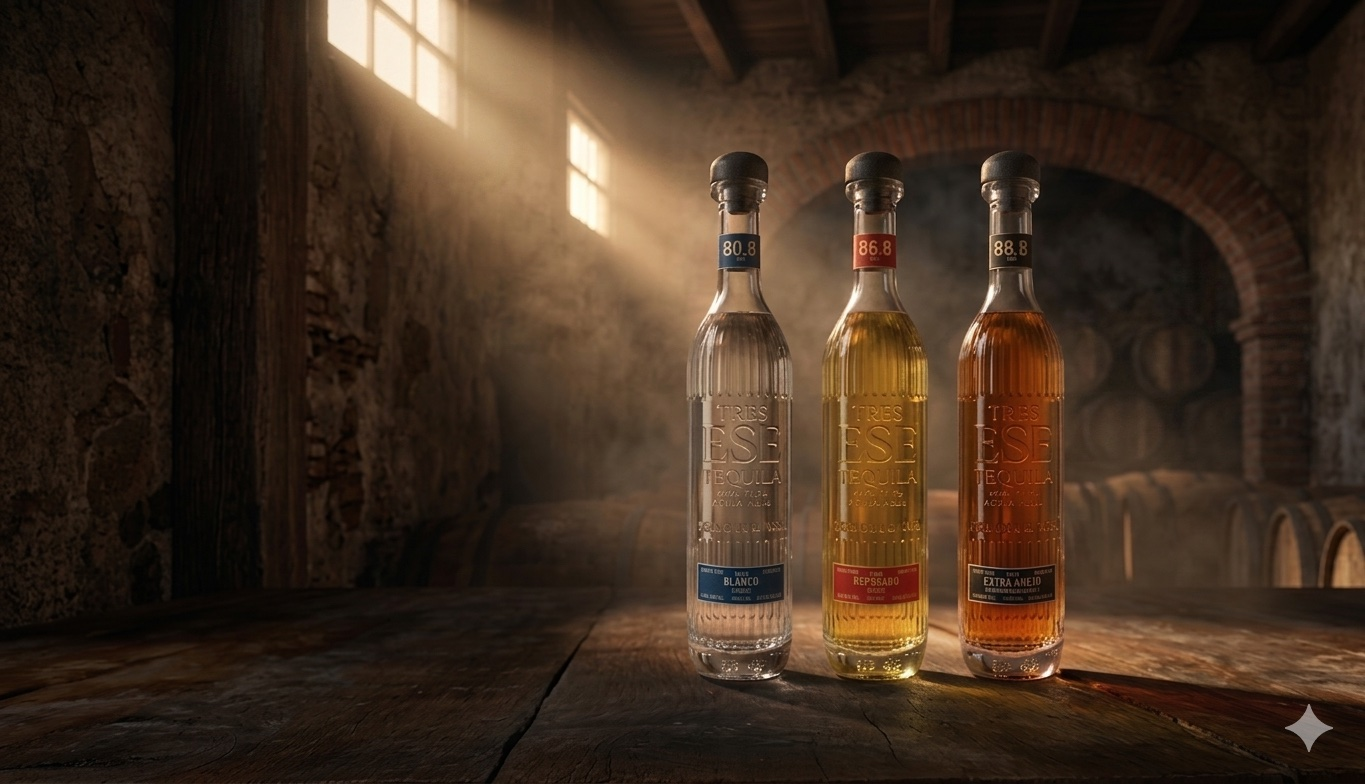
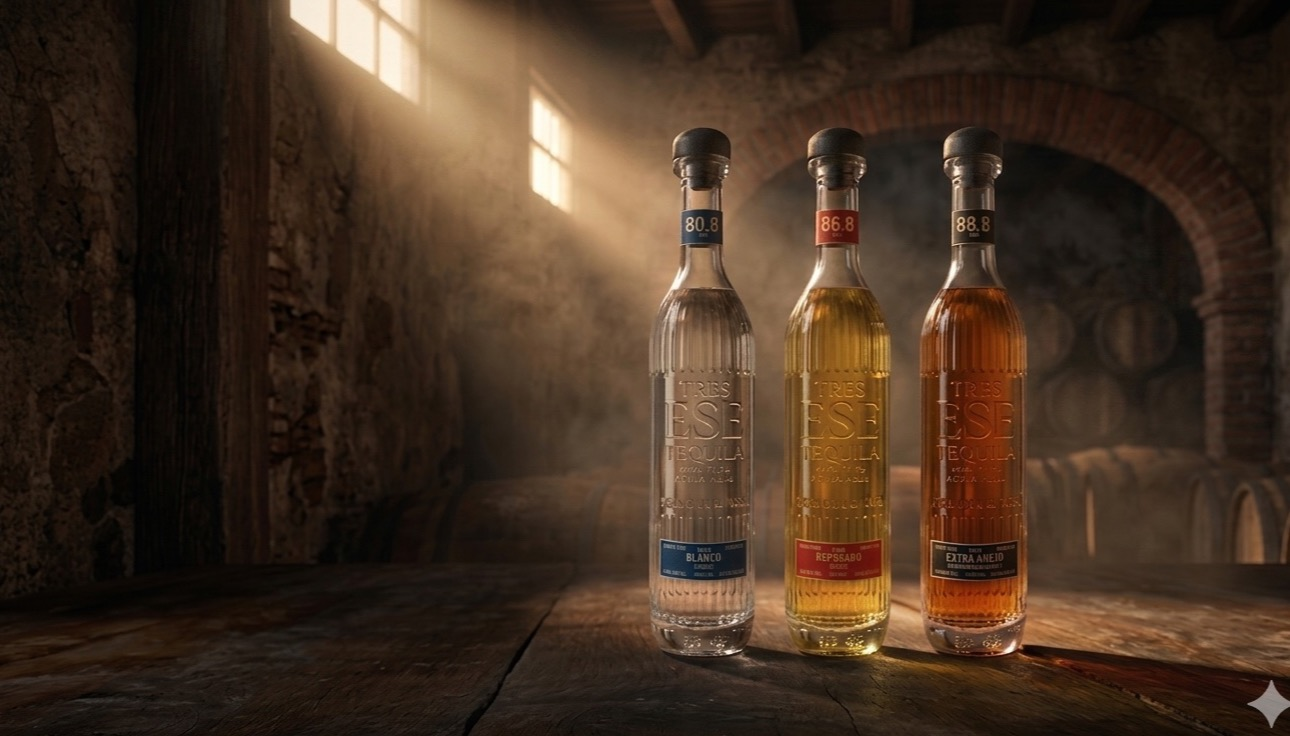
Three desktop fixes per annotated screenshot
1. Hero copy aligns with TRES ESE logo — removed the 1rem padding override
   on .hero-inner so it uses .container --pad like .header-inner
2. Photo right edge dissolves to dark — moved fade gradients onto .hero-bg::after
   with WIDER transition zones (26% horizontal, 13% vertical) so the contained
   image edges actually fall inside the dark gradient
3. Gemini watermark removed at the source — cropped 75px off the right and
   48px off the bottom of hero-cellar.jpg (1365x784 → 1290x736)

diff --git a/css/style.css b/css/style.css
@@ -312,18 +312,11 @@ button{ font: inherit; cursor: pointer; border: 0; background: none; color: inhe
 }
 .hero-bg{
   position:absolute; inset:0;
-  /* Layered background — top to bottom:
-       1. Horizontal edge fade (dark color at left/right, transparent in middle)
-       2. Vertical edge fade (dark color at top/bottom, transparent in middle)
-       3. Cellar photo
-       4. Solid dark fill
-     Where the gradients are solid dark they hide the photo edges; where they
-     fade to transparent the photo shows through. No more hard cutoff. */
-  background:
-    linear-gradient(90deg, #15100c 0%, transparent 10%, transparent 90%, #15100c 100%) no-repeat,
-    linear-gradient(180deg, #15100c 0%, transparent 8%, transparent 92%, #15100c 100%) no-repeat,
-    url('../images/hero-cellar.jpg') center / contain no-repeat,
-    #15100c;
+  background-image: url('../images/hero-cellar.jpg');
+  background-size: contain;
+  background-position: center center;
+  background-repeat: no-repeat;
+  background-color: #15100c;
   /* Gentle enhancement — depth without going red */
   filter: brightness(1.0) saturate(1.15) contrast(1.12);
   z-index: -3;
@@ -332,11 +325,14 @@ button{ font: inherit; cursor: pointer; border: 0; background: none; color: inhe
 .hero-bg::after{
   content:"";
   position:absolute; inset:0;
-  /* Warm spot of light over the bottles, soft shadows in the corners */
+  /* Strong dark fade on all four sides covers the contained photo's hard edges
+     so it dissolves smoothly into the dark cellar fill behind. Wide transition
+     zones (25% horizontal, 12% vertical) ensure the image edges fall inside
+     the gradient — no more hard rectangle. */
   background:
-    radial-gradient(ellipse at 75% 55%, rgba(255,200,130,.10), transparent 50%),
-    radial-gradient(ellipse at 0% 100%, rgba(0,0,0,.4), transparent 55%),
-    radial-gradient(ellipse at 100% 0%, rgba(0,0,0,.35), transparent 55%);
+    linear-gradient(90deg, #15100c 0%, transparent 26%, transparent 74%, #15100c 100%),
+    linear-gradient(180deg, #15100c 0%, transparent 13%, transparent 87%, #15100c 100%);
+  pointer-events: none;
 }
 .hero-veil{
   position:absolute; inset:0;
@@ -389,12 +385,8 @@ button{ font: inherit; cursor: pointer; border: 0; background: none; color: inhe
   grid-template-columns: minmax(0, 1fr) minmax(0, 1.15fr);
   align-items: end;
   gap: clamp(2rem, 5vw, 4rem);
-  /* Override container --pad so the hero copy aligns with the visual edge of
-     the header brand block (logo + captions sit closer to the viewport edge
-     because of the logo's intrinsic transparent margin). Same value on desktop
-     and mobile keeps the layout consistent. */
-  padding-left: 1rem;
-  padding-right: 1rem;
+  /* No padding override — let .container --pad apply so the hero copy starts
+     at the same x-position as the header brand (TRES ESE logo) above. */
 }
 .hero-copy{ align-self: center; }
 .hero-trio{

diff --git a/zh.html b/zh.html
@@ -14,7 +14,7 @@
   <link rel="preconnect" href="https://fonts.gstatic.com" crossorigin />
   <link href="https://fonts.googleapis.com/css2?family=Cormorant+Garamond:ital,wght@0,300;0,400;0,500;0,600;1,300;1,400&family=Inter:wght@300;400;500;600&family=Noto+Serif+SC:wght@300;400;500&family=Noto+Sans+SC:wght@300;400;500&display=swap" rel="stylesheet" />
 
-  <link rel="stylesheet" href="css/style.css?v=20260430k1" />
+  <link rel="stylesheet" href="css/style.css?v=20260430l" />
   <style>
     /* Chinese typography fallback — pair Noto Sans/Serif SC with the brand fonts */
     :root{

diff --git a/es.html b/es.html
@@ -14,7 +14,7 @@
   <link rel="preconnect" href="https://fonts.gstatic.com" crossorigin />
   <link href="https://fonts.googleapis.com/css2?family=Cormorant+Garamond:ital,wght@0,300;0,400;0,500;0,600;1,300;1,400&family=Inter:wght@300;400;500;600&display=swap" rel="stylesheet" />
 
-  <link rel="stylesheet" href="css/style.css?v=20260430k1" />
+  <link rel="stylesheet" href="css/style.css?v=20260430l" />
 </head>
 <body>
 

diff --git a/index.html b/index.html
@@ -14,7 +14,7 @@
   <link rel="preconnect" href="https://fonts.gstatic.com" crossorigin />
   <link href="https://fonts.googleapis.com/css2?family=Cormorant+Garamond:ital,wght@0,300;0,400;0,500;0,600;1,300;1,400&family=Inter:wght@300;400;500;600&display=swap" rel="stylesheet" />
 
-  <link rel="stylesheet" href="css/style.css?v=20260430k1" />
+  <link rel="stylesheet" href="css/style.css?v=20260430l" />
 </head>
 <body>
 
